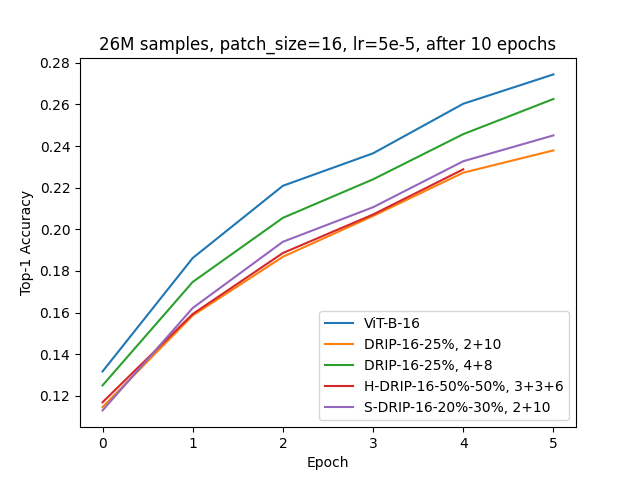
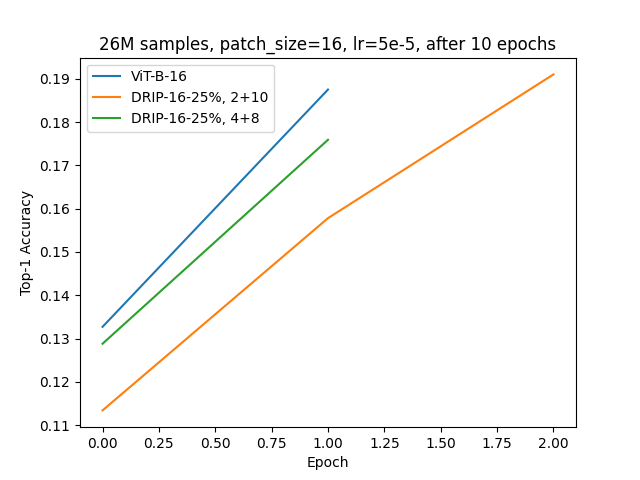
more visualization

diff --git a/src/ImageNet_acc_vis.py b/src/ImageNet_acc_vis.py
@@ -1,0 +1,56 @@
+import pandas as pd
+import numpy as np
+import matplotlib.pyplot as plt
+from typing import Dict, List
+import re
+
+def parse_one_accuracy(file_path) -> List[float]:
+    """Parses a training log file to extract only Val Acc values."""
+    val_acc_values = []
+    pattern = re.compile(
+        r"(?:✅\s*)?Epoch\s*\d+:\s*Train\s+Acc\s*[0-9]*\.?[0-9]+(?:[eE][+-]?\d+)?,\s*Val\s+Acc\s*([0-9]*\.?[0-9]+(?:[eE][+-]?\d+)?)"
+    )
+
+    with open(file_path, "r") as f:
+        for line in f:
+            match = pattern.search(line)
+            if match:
+                val_acc_values.append(float(match.group(1)))
+    
+    if len(val_acc_values) < 100:
+        print(f"Warning: incomplete parsing in {file_path}. Found only {len(val_acc_values)} values.")
+
+    return val_acc_values
+
+def parse_all_accuracies(model2path: Dict) -> Dict:
+    """Parses all files in the model2path dictionary to extract accuracies."""
+    model2acc = {}
+    for model, path in model2path.items():
+        model2acc[model] = parse_one_accuracy(path)
+    return model2acc
+
+def plot_acc_vis(model2acc: Dict, patch_size: int) -> None:
+    """Plots the accuracy visualization for the given model accuracies."""
+    for model, accs in model2acc.items():
+        plt.plot(accs, label=model)
+    plt.xlabel("Epoch")
+    plt.ylabel("Top-1 Accuracy")
+    plt.title(f"patch_size={patch_size}, batch size = 512, lr=5e-5, 4x4 GPUs, after 100 epochs")
+    plt.legend()
+    plt.savefig(f"NEW_ImageNet_acc_vis_{patch_size}.png")
+
+def main():
+    PATCH_SIZE = 16
+
+    model2path = {
+        'ViT-B-16': 'ImageNet_ViT16.txt',
+        "DRIP-16-25%, 2+10": 'ImageNet_DRIP_2_10.txt',
+        "DRIP-16-25%, 4+8": 'ImageNet_DRIP_4_8.txt'
+    }
+
+    model2acc = parse_all_accuracies(model2path)
+    plot_acc_vis(model2acc, patch_size=PATCH_SIZE)
+
+
+if __name__ == "__main__":
+    main()

diff --git a/src/CLIP_acc_vis.py b/src/CLIP_acc_vis.py
@@ -4,6 +4,7 @@ import matplotlib.pyplot as plt
 from typing import Dict, List
 import re
 
+
 def parse_one_accuracy(file_path) -> List[float]:
     """Parses a single file to extract the top1 accuracy values."""
     top1_values = []
@@ -61,12 +62,17 @@ def main():
         #     "H-DRIP-16-50%-50%, 3+3+6": 'H-DRIP-16.log',
         #     "S-DRIP-16-40%-60%, 2+10": 'S-DRIP-16.log',
         # }
+        # model2path = {
+        #     'ViT-B-16': 'Aug6_ViT16.log',
+        #     "DRIP-16-25%, 2+10": 'Aug6_DRIP_25_2_10.log',
+        #     "DRIP-16-25%, 4+8": 'Aug6_DRIP_25_4_8.log',
+        #     "H-DRIP-16-50%-50%, 3+3+6": 'Aug6_H-DRIP.log',
+        #     "S-DRIP-16-20%-30%, 2+10": 'Aug6_S-DRIP.log',
+        # }
         model2path = {
-            'ViT-B-16': 'Aug6_ViT16.log',
-            "DRIP-16-25%, 2+10": 'Aug6_DRIP_25_2_10.log',
-            "DRIP-16-25%, 4+8": 'Aug6_DRIP_25_4_8.log',
-            "H-DRIP-16-50%-50%, 3+3+6": 'Aug6_H-DRIP.log',
-            "S-DRIP-16-20%-30%, 2+10": 'Aug6_S-DRIP.log',
+            'ViT-B-16': 'Aug13_ViT16.log',
+            "DRIP-16-25%, 2+10": 'Aug13_DRIP_2_10.log',
+            "DRIP-16-25%, 4+8": 'Aug13_DRIP_4_8.log'
         }
 
 

diff --git a/README.md b/README.md
@@ -93,7 +93,7 @@ GPU = 4
 | 💦H-DRIP-16-50%-50%, 3+3+6 | 9.65 | **5🌝** | **22.88%** | **46.69%** |
 | 🫧S-DRIP-16-20%-30%, 2+10 | 7.21 | 6 | **24.51%** | **48.98%** |
 
-![alt text](/NEW_acc_vis_16.png)
+![alt text](/incomplete_acc_vis_16.png)
 
 Train with exact 10 epochs:
 
@@ -103,7 +103,7 @@ Train with exact 10 epochs:
 | 💧DRIP-4X-16, 4+8 | 9.61🔥 | **10** | **?** | **?** |
 | 💧DRIP-4X-16, 2+10 | 7.21 | **10** | **?** | **?** |
 
-
+![alt text](/NEW_acc_vis_16.png)
 
 
 ### What else?
@@ -143,6 +143,8 @@ other things to try:
 | ViT-B-16 | N/A | N/A | N/A | 100 | **running!** |
 | DRIP-2X-16, 4+8  | N/A | N/A | N/A | 100 | **42.31%** |
 | DRIP-2X-16, 2+10 | N/A | N/A | N/A | 100 | **34.88%** |
+
+![alt text](/NEW_ImageNet_acc_vis_16.png)
 
 ## TASK 3 - Visual Instruction Tuning (LLaVA)
 
